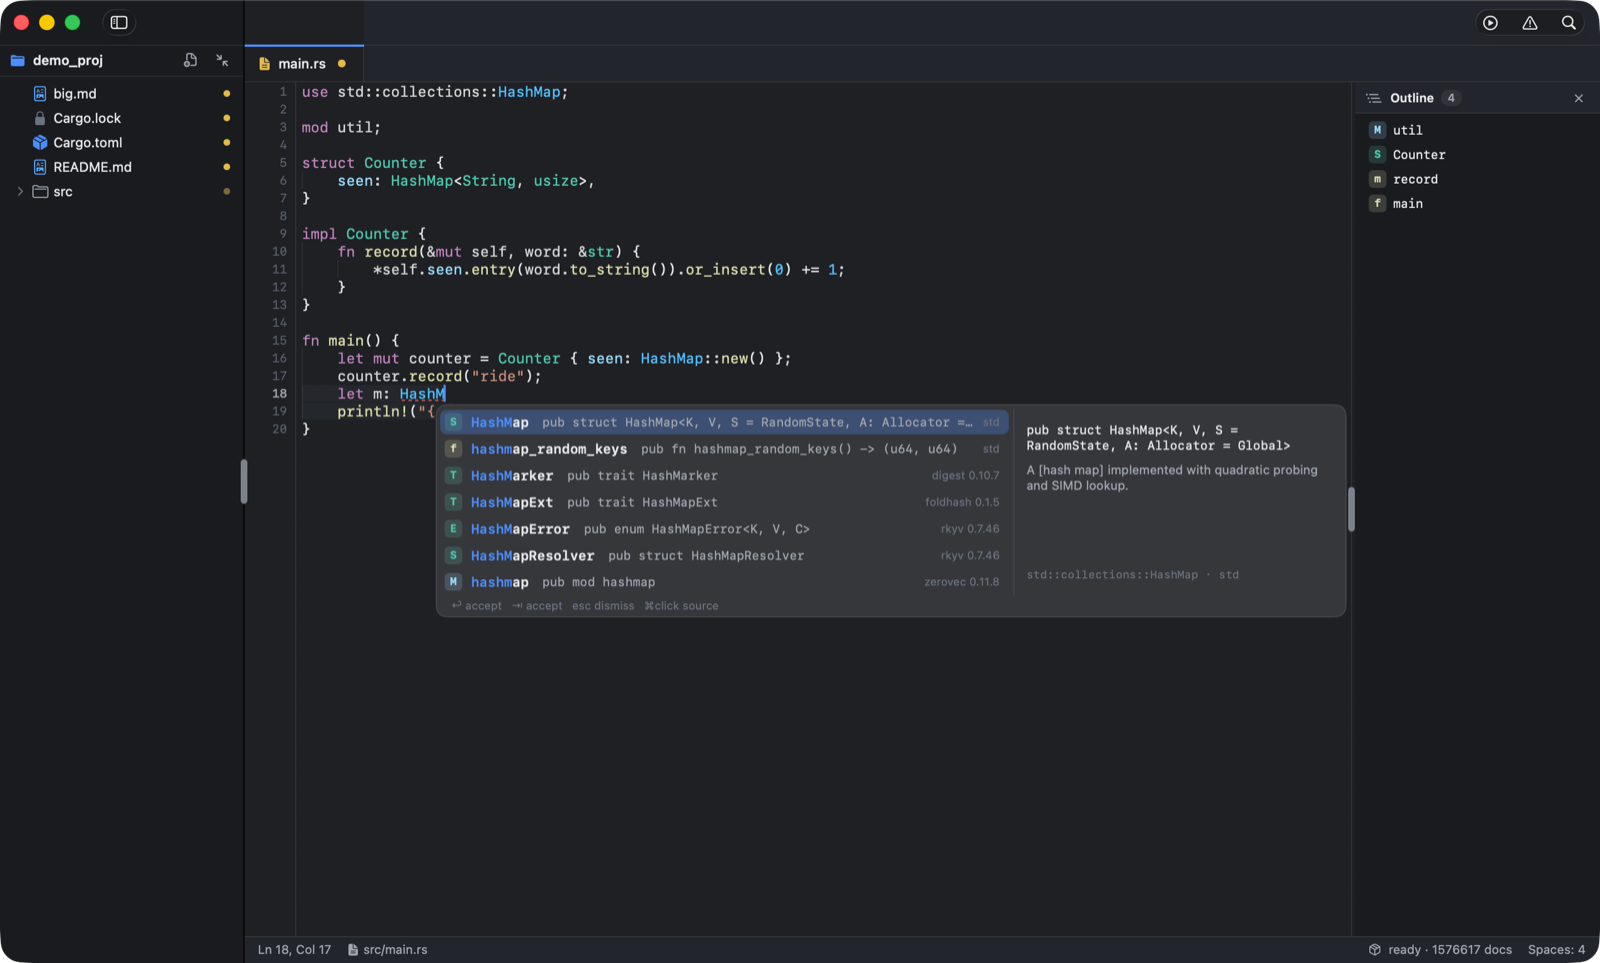
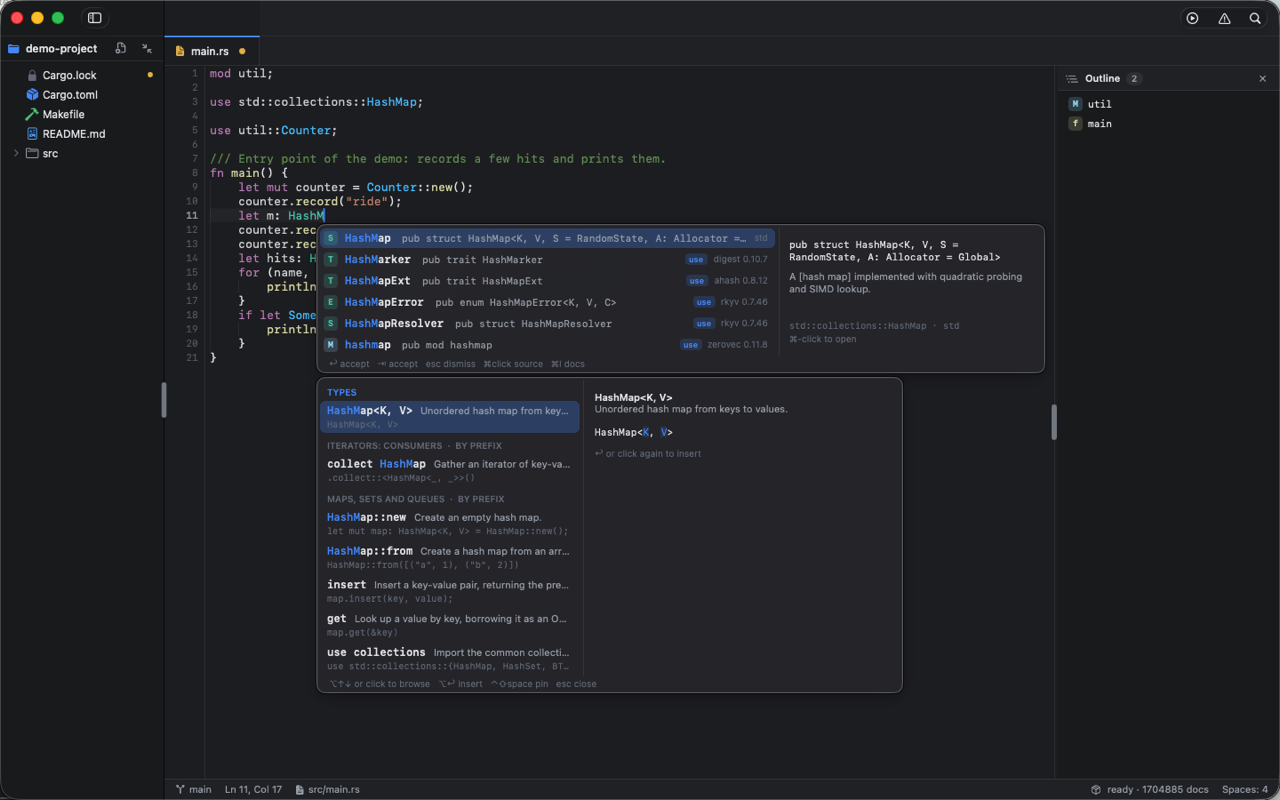
docs: screenshots of the cheat sheet, completion, hover, problems, C++, Makefile, search and preview in README
Also clamps the cheat sheet panel to the room on the chosen side of the
completion popup and fixes the preview pane layout.

Claude-Session: https://claude.ai/code/session_01K9VB7zEwXwe9APUMQWcZhv

diff --git a/app/Ride/CheatSheet/CheatSheetPreview.swift b/app/Ride/CheatSheet/CheatSheetPreview.swift
@@ -2,7 +2,6 @@ import AppKit
 
 final class CheatSheetPreview: NSView {
     static let width: CGFloat = 360
-    static let lineHeight: CGFloat = 15
     private let separator = NSView()
     private let scroll = NSScrollView()
     private let text = NSTextView()
@@ -14,9 +13,12 @@ final class CheatSheetPreview: NSView {
         text.isSelectable = false
         text.drawsBackground = false
         text.textContainerInset = NSSize(width: Tokens.Space.m, height: Tokens.Space.l)
+        text.minSize = .zero
+        text.maxSize = NSSize(width: CGFloat.greatestFiniteMagnitude, height: CGFloat.greatestFiniteMagnitude)
         text.isVerticallyResizable = true
         text.isHorizontallyResizable = false
         text.autoresizingMask = [.width]
+        text.textContainer?.containerSize = NSSize(width: Self.width, height: CGFloat.greatestFiniteMagnitude)
         text.textContainer?.widthTracksTextView = true
         text.textContainer?.lineFragmentPadding = Tokens.Space.xs
         scroll.documentView = text
@@ -32,8 +34,12 @@ final class CheatSheetPreview: NSView {
         nil
     }
 
-    override func layout() {
-        super.layout()
+    override func setFrameSize(_ newSize: NSSize) {
+        super.setFrameSize(newSize)
+        place()
+    }
+
+    private func place() {
         separator.frame = NSRect(x: 0, y: 0, width: Tokens.Size.hairline, height: bounds.height)
         scroll.frame = NSRect(x: Tokens.Size.hairline, y: 0, width: bounds.width - Tokens.Size.hairline, height: bounds.height)
         text.frame.size.width = scroll.contentSize.width
@@ -44,13 +50,8 @@ final class CheatSheetPreview: NSView {
         separator.layer?.backgroundColor = chrome.border.cgColor
         text.textStorage?.setAttributedString(Self.content(entry, chrome: chrome))
         text.frame.size.width = scroll.contentSize.width
+        text.sizeToFit()
         scroll.contentView.scroll(to: .zero)
-    }
-
-    static func neededHeight(_ entry: CheatItem) -> CGFloat {
-        let lines = entry.snippet.split(separator: "\n", omittingEmptySubsequences: false).count
-        let docLines = CGFloat((entry.doc.count / 48) + 1)
-        return CGFloat(lines) * lineHeight + docLines * lineHeight + Tokens.Space.l * 3 + lineHeight * 2
     }
 
     static func content(_ entry: CheatItem?, chrome: ChromeColors) -> NSAttributedString {

diff --git a/app/Ride/CheatSheet/CheatSheetPlacement.swift b/app/Ride/CheatSheet/CheatSheetPlacement.swift
@@ -14,14 +14,20 @@ enum CheatSheetPlacement {
         guard let completion = anchor.completion else {
             return CompletionPlacement.frame(caret: anchor.caret, screen: anchor.screen, size: size)
         }
-        let above = completion.maxY + gap
-        let below = completion.minY - gap - size.height
-        var frame = NSRect(x: completion.minX, y: anchor.completionAboveCaret ? above : below, width: size.width, height: size.height)
-        if frame.minY < anchor.screen.minY {
-            frame.origin.y = above
-        } else if frame.maxY > anchor.screen.maxY {
-            frame.origin.y = below
+        let roomAbove = anchor.screen.maxY - completion.maxY - gap
+        let roomBelow = completion.minY - gap - anchor.screen.minY
+        let preferAbove = anchor.completionAboveCaret
+        let goAbove: Bool
+        if (preferAbove ? roomAbove : roomBelow) >= size.height {
+            goAbove = preferAbove
+        } else if (preferAbove ? roomBelow : roomAbove) >= size.height {
+            goAbove = !preferAbove
+        } else {
+            goAbove = roomAbove >= roomBelow
         }
+        let height = min(size.height, max(goAbove ? roomAbove : roomBelow, 0))
+        let y = goAbove ? completion.maxY + gap : completion.minY - gap - height
+        var frame = NSRect(x: completion.minX, y: y, width: size.width, height: height)
         if frame.maxX > anchor.screen.maxX {
             frame.origin.x = max(anchor.screen.minX, anchor.screen.maxX - size.width)
         }

diff --git a/app/Ride/CheatSheet/CheatSheetLayout.swift b/app/Ride/CheatSheet/CheatSheetLayout.swift
@@ -4,7 +4,8 @@ final class CheatSheetLayout: NSView {
     static let listWidth: CGFloat = 300
     static let entryRow: CGFloat = 38
     static let headerRow: CGFloat = 22
-    static let maxBody: CGFloat = 440
+    static let maxBody: CGFloat = 380
+    static let minBody: CGFloat = 240
     static let footerHeight: CGFloat = 20
     static let topInset = Tokens.Space.xs
 
@@ -72,8 +73,7 @@ final class CheatSheetLayout: NSView {
 
     static func bodyHeight(rows: [CheatRow]) -> CGFloat {
         let list = rows.reduce(0) { $0 + rowHeight($1) }
-        let preview = rows.compactMap(\.entry).map(CheatSheetPreview.neededHeight).max() ?? 0
-        return min(max(list, preview, entryRow), maxBody)
+        return min(max(list, minBody), maxBody)
     }
 
     func size(rows: [CheatRow]) -> NSSize {

diff --git a/README.md b/README.md
@@ -2,11 +2,51 @@
 
 Native macOS IDE for Rust, with C and C++ editing. A SwiftUI/AppKit shell (`app/`) over a Rust language engine (`src/`) that discovers crates on disk, extracts items with tree-sitter, indexes them with Tantivy, and answers completion, highlight and outline queries in-process through UniFFI. C and C++ buffers get tree-sitter highlighting, outline, parse errors, keyword, member and header-aware completion, definitions across included headers and clang-format. TOML, Makefiles and CMake files get highlighting, an outline and keyword plus buffer-local completion.
 
-![Ride editing a Rust file with the completion popup, documentation card and outline](docs/images/ride-editor.png)
+![Ride editing a Rust file with the completion popup, documentation card and the cheat sheet stacked below it](docs/images/ride-editor.png)
 
-Completions come from the open buffer, the workspace and every crate already on disk, including the rustc sysroot, in under a millisecond. Markdown files get tree-sitter highlighting, a heading outline and a rendered preview.
+Completions come from the open buffer, the workspace and every crate already on disk, including the rustc sysroot, in under a millisecond. Rows carry the signature, origin crate and an `use` tag when accepting will add the import; the doc card on the right shows the documentation of the selected row.
 
-![Ride showing a markdown file next to its rendered preview](docs/images/ride-markdown.png)
+## Cheat sheet
+
+A second popup shows the part of the language cheat sheet that fits the caret: items at file level, statements inside a body, patterns in a `match` arm, `$(...)` functions in a Makefile. Rust, C, C++ and GNU Make each ship a full sheet (about 1,900 templates in total) as TOML data under `cheatsheets/`.
+
+![The cheat sheet popup below the completion list, with the Control flow section first and the full match template previewed on the right](docs/images/ride-cheatsheet.png)
+
+Arrow keys or a click select a row and the preview pane shows the complete example with its placeholders; `↩`, `⇥`, a second click on the selected row or a double-click inserts it as a snippet with tab stops. The sheet follows the completion popup automatically (preference "Cheat sheet with completions"); `⌃⇧Space` pins it open on its own. With both popups open, `⌥↑` / `⌥↓` or a click move focus to the sheet and `⌥↩` inserts.
+
+## Editing
+
+Hover an identifier for its signature and first doc paragraph; F12 jumps to the definition in the buffer, a crate on disk or an included header.
+
+![Hover card over HashMap showing the struct signature and documentation](docs/images/ride-hover.png)
+
+`cargo check` runs on save (or ⌘B), and `clang -fsyntax-only` does the same for C and C++ files with flags from `compile_commands.json`. Diagnostics land in the Problems panel and as underlines in the editor.
+
+![Problems panel listing a cargo check error with the offending line underlined](docs/images/ride-problems.png)
+
+C++ files get the same treatment: highlighting, outline, member and `::` completion through the included headers, definitions into `include/` and clang-format.
+
+![A C++ source file from the cpp-demo sample with namespaces, templates and member calls highlighted](docs/images/ride-cpp.png)
+
+Makefiles have an outline of targets and variables, highlighting of automatic variables and functions, and completion for GNU make directives, functions and builtin variables.
+
+![A Makefile with variables, pattern rules and recipes highlighted and its targets in the outline](docs/images/ride-makefile.png)
+
+## Navigation and search
+
+⇧⌘R searches every symbol in the workspace and the crate catalog; ⌘P opens files quickly; ⇧⌘F finds text across the project.
+
+![Go to Symbol in Project listing Hash, Hasher, HashMap and HashSet with their paths](docs/images/ride-symbols.png)
+
+![Find in Project results for "counter" grouped by file](docs/images/ride-find.png)
+
+Markdown files get tree-sitter highlighting, a heading outline and a rendered preview with highlighted code fences.
+
+![A markdown file next to its rendered preview](docs/images/ride-markdown.png)
+
+Light and dark themes are peers; every screen above is also reviewed in light.
+
+![The editor in the light theme](docs/images/ride-light.png)
 
 ## Install
 
@@ -33,13 +73,18 @@ The one-shot indexer writes to `~/Library/Application Support/Ride/index/`:
 ```sh
 target/debug/ride-engine index --project-path . --index-dir <dir> [--force]
 target/debug/ride-engine query HashMap --index-dir <dir>
+target/debug/ride-engine complete src/main.rs --find "let x = " --typed "Has"
+target/debug/ride-engine cheat src/main.rs --find "fn main() {" --typed $'\n    ma'
 target/debug/ride-engine status --index-dir <dir>
 ```
+
+Screenshots come from the demo scenes: `Ride.app --args --open <folder> --demo <scene> --frame 1440x900` (`editor`, `completion`, `cheatsheet`, `hover`, `quickopen`, `symbols`, `find`, `problems`, `preview`, `outline`, `light`, `file --file <path>`), captured by window bounds.
 
 ## Where things live
 
 - `docs/README.md` — documentation index
 - `plan/ride_draft.md` — product and architecture spec (authoritative)
 - `plan/roadmap/improve-extend.md` — current roadmap
+- `plan/roadmap/cheatsheet.md` — cheat sheet design
 - `todo/` — open follow-ups per module
 - `AGENTS.md` — engineering rules for this repo
